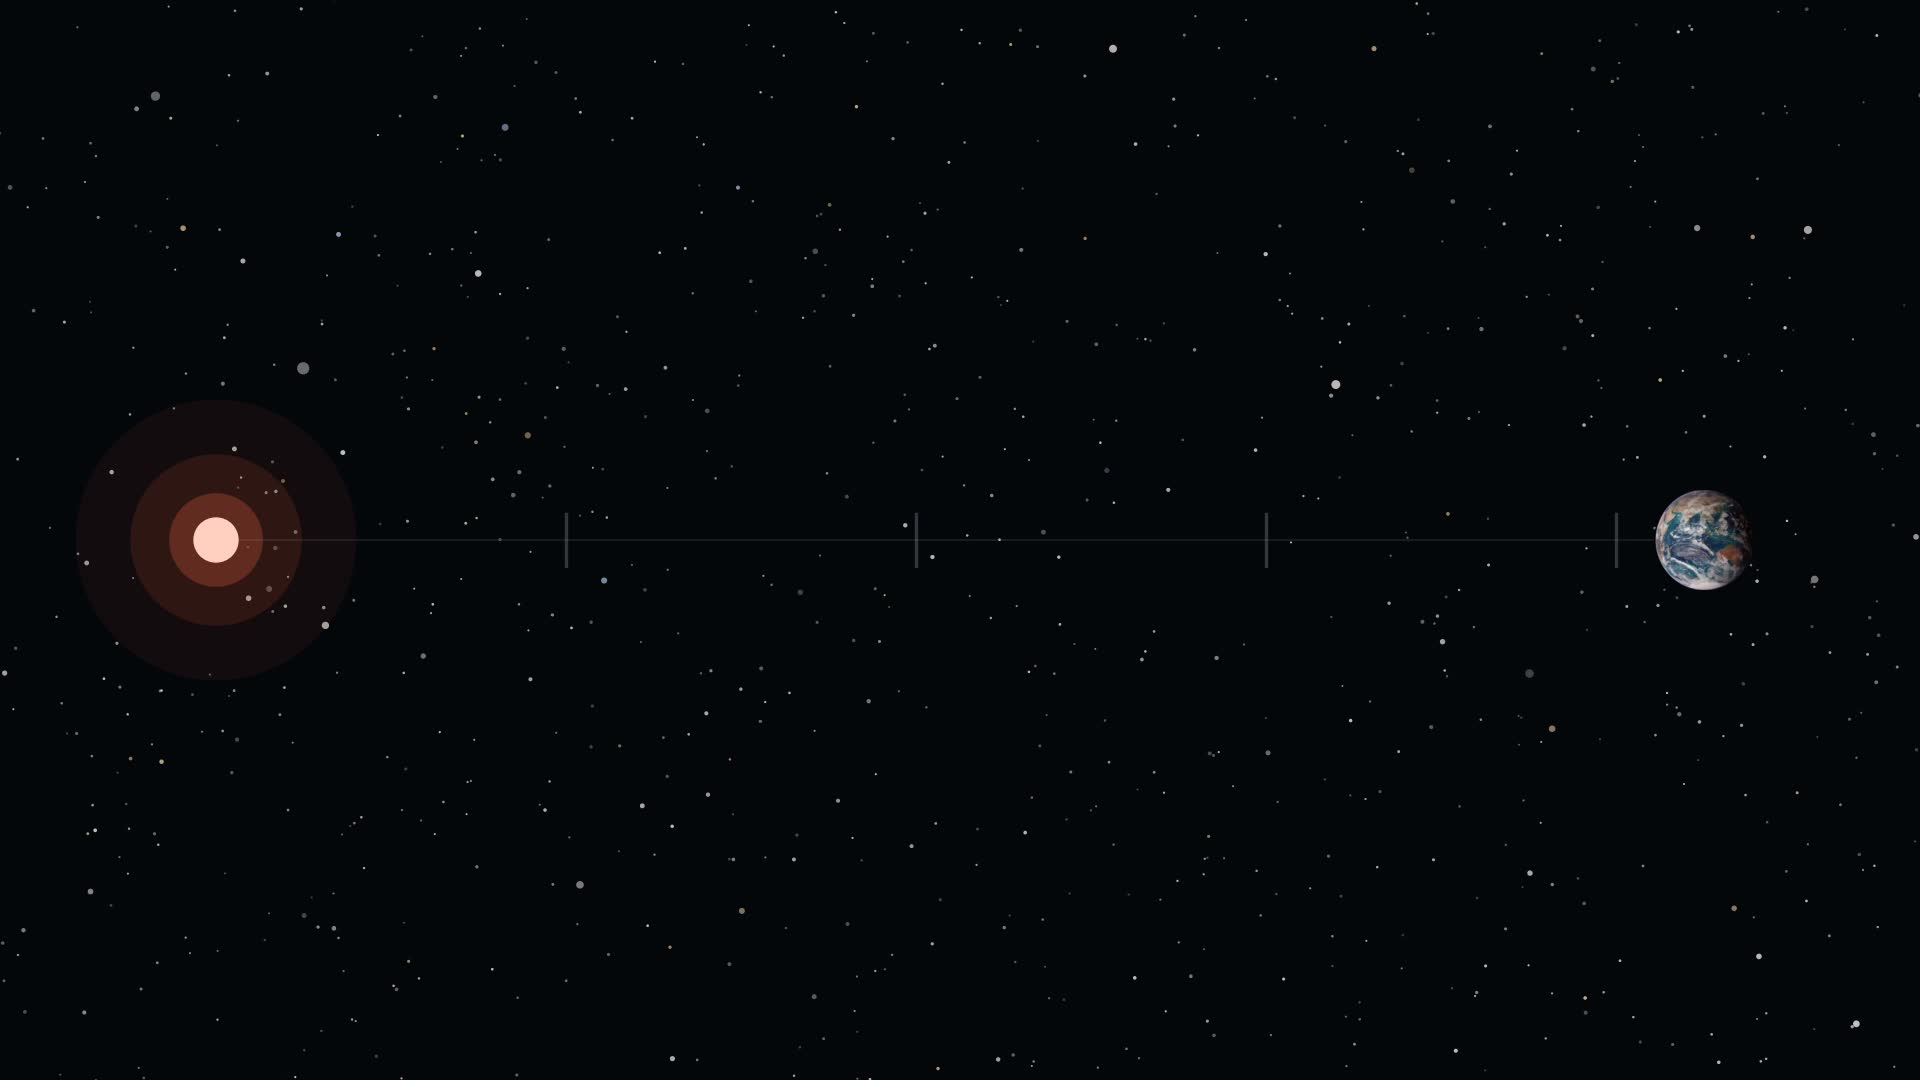
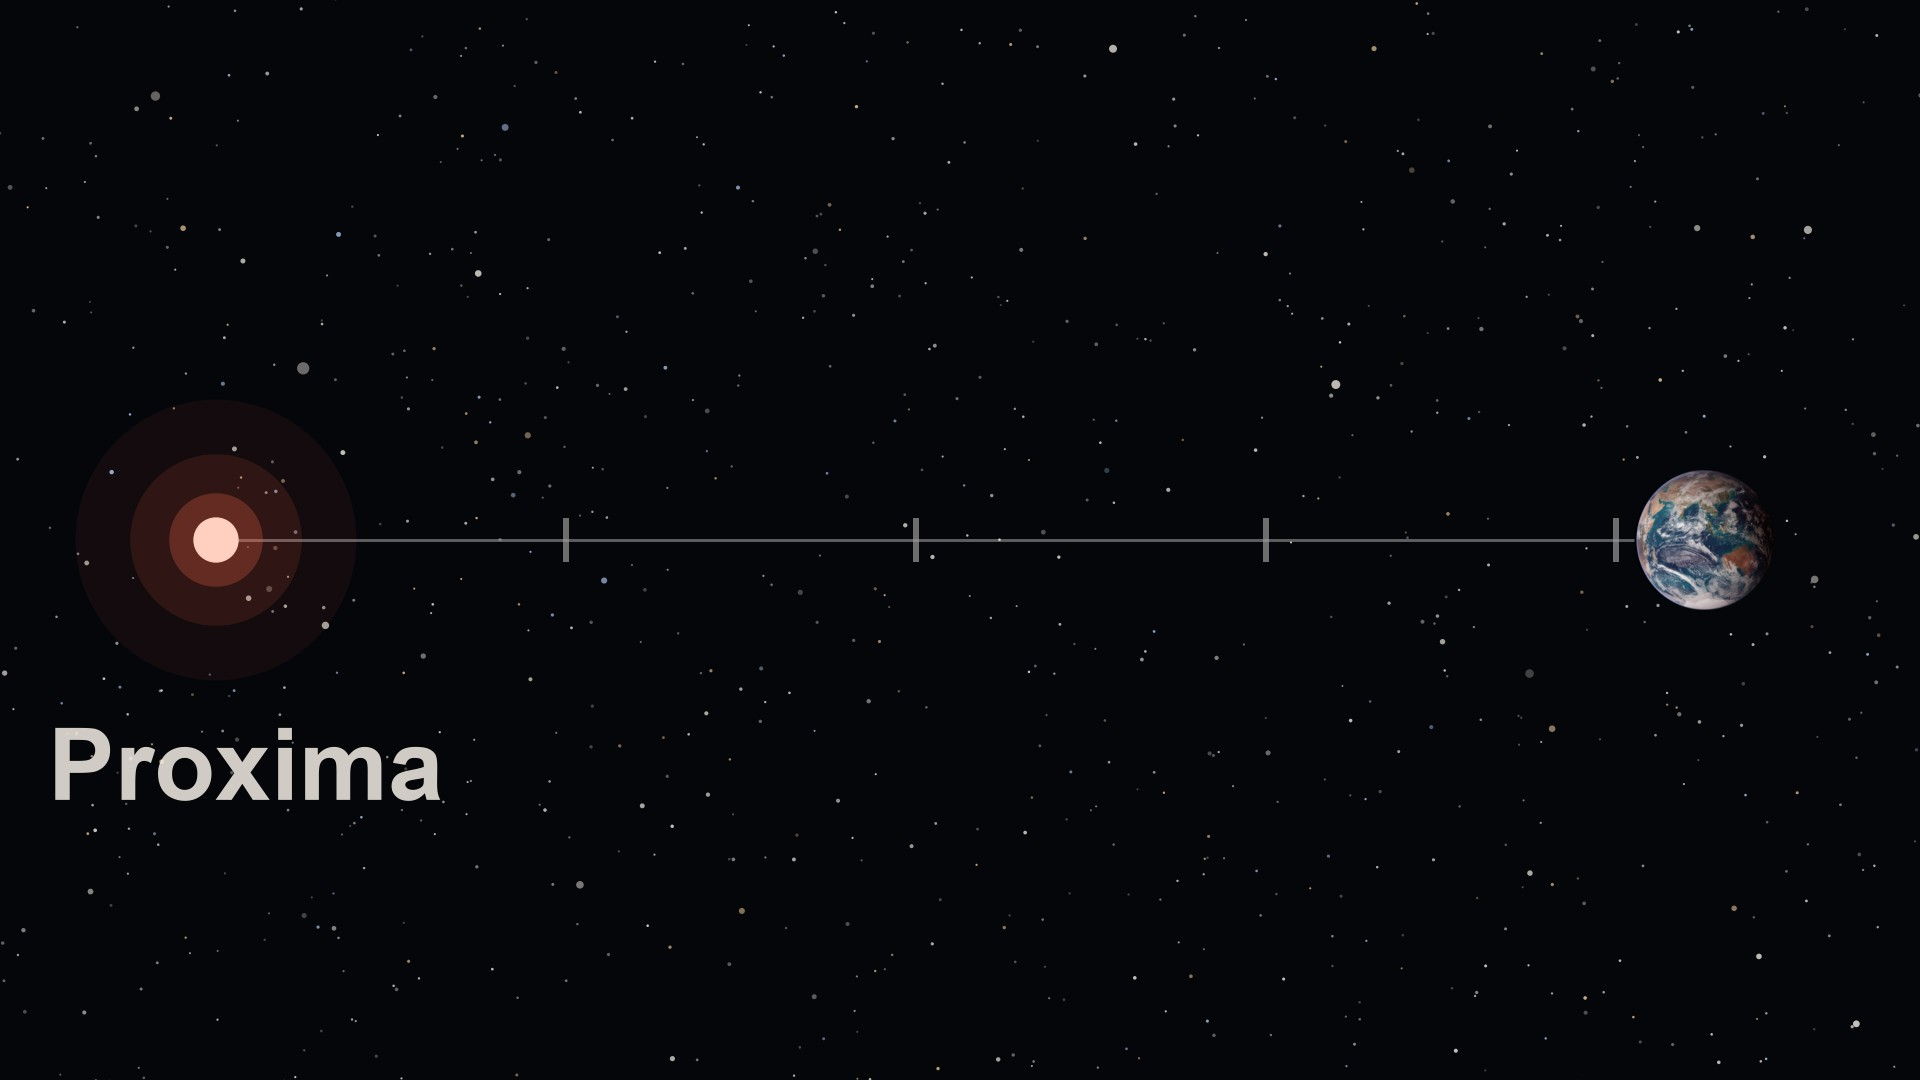
026 J0085: lightyear + lightrace labels, thicker ticks, gold Sun, scaled Moon/Sun, Proxima guide line (Chief FIX #6090651546) [Cursor covering]

diff --git a/02_Video-Projects/026_How-Far-Is-The-Nearest-Star/07_Edit-Project/code_graphics.py b/02_Video-Projects/026_How-Far-Is-The-Nearest-Star/07_Edit-Project/code_graphics.py
@@ -1,5 +1,6 @@
 #!/usr/bin/env python3
-"""Code-drawn graphics for the nearest-star film (026). 1920x1080, 30 fps, PNG frames then MP4. Text-free by design.
+"""Code-drawn graphics for the nearest-star film (026). 1920x1080, 30 fps, PNG frames then MP4. Text-free, except
+the v05 graphics, which carry short house-type labels taken from the spoken line (AGENTS.md 7: read with the sound off).
 
   python3 code_graphics.py parallax   out/   # ch.2: Earth moves Jan -> Jul; the near star shifts against the far stars
   python3 code_graphics.py triple     out/   # ch.1: Alpha Cen A and B orbit each other; Proxima loops round them, far out
@@ -27,8 +28,10 @@ Numbers (01_Script/SOURCES.md):
 import argparse, math, os, subprocess, sys
 
 import numpy as np
+import logging
 import matplotlib
 matplotlib.use("Agg")
+logging.getLogger("matplotlib.font_manager").setLevel(logging.ERROR)
 import matplotlib.pyplot as plt
 from matplotlib.patches import Circle, Ellipse, Rectangle
 
@@ -40,6 +43,10 @@ DIM = "#8a8f9c"
 CYAN = "#5fd6ff"
 RED = "#ff6a4a"
 EARTH = "#3a7bd5"
+YELLOW = "#ffd23f"
+FONT = {"family": ["Arial", "Helvetica", "DejaVu Sans"], "weight": "bold"}
+LABEL_PT = 60
+UNIT_PX = W / 16
 
 
 def ease(t):
@@ -193,7 +200,7 @@ def render_scale(out, seconds, still):
 POOL = os.path.join(os.path.dirname(os.path.abspath(__file__)), "pool_v01")
 EARTH_IMG = "earth_moon/GSFC_20171208_Archive_e002130.jpg"
 MOON_IMG = "earth_moon/GSFC_20171208_Archive_e001982.jpg"
-SUN_IMG = "sun/GSFC_20171208_Archive_e002035.jpg"
+SUN_IMG = "sun/GSFC_20171208_Archive_e000759.jpg"  # gold SDO 171; graded warm-white in disc() so it reads as the Sun
 _DISCS = {}
 
 
@@ -214,6 +221,9 @@ def disc(rel, px=600):
     r = max(rows[-1] - rows[0], cols[-1] - cols[0]) / 2
     sq = im.crop((round(cx - r), round(cy - r), round(cx + r), round(cy + r))).resize((px, px), Image.Resampling.LANCZOS)
     rgb = np.asarray(sq, dtype=np.float32) / 255.0
+    if rel == SUN_IMG:
+        lum = np.clip(rgb.max(axis=2, keepdims=True), 0, 1) ** 0.4
+        rgb = np.clip(0.25 * rgb + 0.85 * lum * np.array([1.0, 0.9, 0.62], dtype=np.float32), 0, 1)
     yy, xx = np.mgrid[0:px, 0:px]
     d = np.hypot(xx - (px - 1) / 2, yy - (px - 1) / 2) / (px / 2)
     alpha = np.clip((1.0 - d) / 0.02, 0, 1)
@@ -256,71 +266,118 @@ def star_field(seed, n=900):
     return pts, size, alpha, tint
 
 
+_WIDTHS = {}
+
+
+def text_w(fig, text):
+    """Width of `text` in data units at label size, trailing spaces included."""
+    if text not in _WIDTHS:
+        r = fig.canvas.get_renderer()
+        def px(t):
+            h = fig.text(0, 0, t, fontsize=LABEL_PT, fontdict=FONT)
+            w = h.get_window_extent(r).width
+            h.remove()
+            return w
+        _WIDTHS[text] = (px(text + "|") - px("|")) / UNIT_PX
+    return _WIDTHS[text]
+
+
+def label(fig, ax, x, y, parts, alpha=1.0):
+    """A one-line label centred on (x, y), kept inside the frame. `parts` is [(text, colour), ...] so the number or hook
+    word can be yellow while the rest is white."""
+    if alpha <= 0.01:
+        return
+    total = sum(text_w(fig, t) for t, _ in parts)
+    left = min(max(x - total / 2, -7.6), 7.6 - total)
+    for t, col in parts:
+        ax.text(left, y, t, color=col, alpha=alpha, fontsize=LABEL_PT, fontdict=FONT, ha="left", va="center", zorder=10)
+        left += text_w(fig, t)
+
+
+def guide(ax, x0, x1, y):
+    ax.plot([x0, x1], [y, y], color="white", lw=3 * 72 / DPI, alpha=0.35, zorder=2, solid_capstyle="butt")
+
+
 def render_lightyear(out, seconds, still, leave=0.6, arrive=8.3):
     """Row 9: Proxima (red-dwarf glow, left) and a small real Earth (right) across a full-frame star field. One pulse
     leaves Proxima at `leave` s and reaches Earth at `arrive` s at constant speed. Four ticks at 1/4.25 .. 4/4.25 of the
-    path (one per year of the 4.25-year trip) light up as the pulse passes; the last quarter year has no tick."""
+    path (one per year of the 4.25-year trip) light up as the pulse passes; the last quarter year has no tick.
+    Labels (row starts at 112.20 s film time): "Proxima" throughout; "1 year" as the first tick lights (~114.6 s, "in a
+    year"); "More than 4 years" from "more" (119.80 s) through "four years ago"."""
     pts, size, alpha, tint = star_field(4246)
     n = int(seconds * FPS)
     PX, EX, Y = -6.2, 6.2, 0.0
     ticks = [PX + (EX - PX) * k / 4.25 for k in range(1, 5)]
+    first_tick = leave + (arrive - leave) / 4.25
+    TH = 22 / UNIT_PX
     frames = [int(n * 0.6)] if still else range(n)
     for i in frames:
         t = i / FPS
         fig, ax = canvas()
         ax.scatter(pts[:, 0], pts[:, 1], s=size, c=tint, alpha=alpha, lw=0)
-        ax.plot([PX, EX], [Y, Y], color=DIM, lw=1, alpha=0.18, zorder=2)
+        guide(ax, PX, EX, Y)
         s = min(1.0, max(0.0, (t - leave) / (arrive - leave)))
         x = PX + (EX - PX) * s
         for tx in ticks:
             lit = x >= tx
-            ax.plot([tx, tx], [Y - 0.22, Y + 0.22], color=GOLD if lit else DIM, lw=3 if lit else 2,
-                    alpha=0.95 if lit else 0.35, zorder=3)
+            ax.plot([tx, tx], [Y - TH, Y + TH], color=GOLD if lit else "#9a9a9a", lw=6 * 72 / DPI,
+                    alpha=1.0 if lit else 0.7, zorder=3, solid_capstyle="butt")
         red_dwarf(ax, PX, Y, scale=1.3)
-        put_disc(ax, EARTH_IMG, EX, Y, 0.42)
+        put_disc(ax, EARTH_IMG, EX, Y, 0.585)
         if t >= leave:
             fade = 1.0 - ease((t - arrive) / 0.5) if t > arrive else 1.0
-            pulse(ax, PX, Y, min(x, EX - 0.3), alpha=fade)
+            pulse(ax, PX, Y, min(x, EX - 0.4), alpha=fade)
         if t > arrive:
             g = 1.0 - ease((t - arrive) / 1.2)
-            ax.add_patch(Circle((EX, Y), 0.75, color="#fff3c8", alpha=0.25 * g, lw=0, zorder=9))
+            ax.add_patch(Circle((EX, Y), 0.9, color="#fff3c8", alpha=0.25 * g, lw=0, zorder=9))
+        label(fig, ax, PX, -1.95, [("Proxima", WHITE)], ease(t / 0.4))
+        label(fig, ax, ticks[0], 0.95, [("1 year", YELLOW)], ease((t - first_tick) / 0.4))
+        label(fig, ax, 0.0, 2.7, [("More than ", WHITE), ("4 years", YELLOW)], ease((t - 7.6) / 0.5))
         save(fig, out, i, still)
     finish(out, still)
 
 
 def render_lightrace(out, seconds, still):
     """Row 27, timed to the VO from the row's start (361.80 s): a small real Earth on the right throughout; on the left,
-    in turn, the real Moon (LRO e001982), the real Sun (SDO e002035) and Proxima (code red-dwarf glow), each a cut-out
-    disc on black space. Each sends a pulse to Earth: the Moon's lands in 1 s, the Sun's in 3 s, Proxima's sets out on
-    "Light from the nearest star" and is still only a sliver of the way across when the row ends. Text-free."""
+    in turn, the real Moon (LRO e001982, half Earth's width), the real Sun (SDO e000759, gold, 1.5x Earth's width) and
+    Proxima (code red-dwarf glow), each a cut-out disc on black space. Each sends a pulse to Earth: the Moon's lands in
+    1 s, the Sun's in 3 s, Proxima's sets out on "Light from the nearest star" along a faint guide line and is still only
+    a sliver of the way across when the row ends. A label under each source fades in on its spoken number: "just"
+    (4.56 s), "eight" (7.78 s), "more" (11.34 s)."""
     pts, size, alpha, tint = star_field(1338, 500)
     n = int(seconds * FPS)
     SX, EX, Y = -5.4, 5.8, 0.0
-    # (source, fade in, pulse leaves, pulse arrives, fade out); local seconds from the row start
-    beats = [("moon", 1.9, 3.3, 4.3, 5.9), ("sun", 6.0, 6.5, 9.5, 9.6), ("proxima", 9.7, 10.2, None, None)]
+    ER = 0.6
+    radius = {"moon": ER * 0.5, "sun": ER * 1.5, "proxima": 0.14}
+    # (source, fade in, pulse leaves, pulse arrives, fade out, label in, label); local seconds from the row start
+    beats = [("moon", 1.9, 3.3, 4.3, 5.9, 4.56, [("Just over ", WHITE), ("a second", YELLOW)]),
+             ("sun", 6.0, 6.5, 9.5, 9.6, 7.78, [("About ", WHITE), ("8 minutes", YELLOW)]),
+             ("proxima", 9.7, 10.2, None, None, 11.34, [("More than ", WHITE), ("4 years", YELLOW)])]
     crawl = 0.035 / max(0.1, seconds - 10.2)
     frames = [int(n * 0.6)] if still else range(n)
     for i in frames:
         t = i / FPS
         fig, ax = canvas()
         ax.scatter(pts[:, 0], pts[:, 1], s=size, c=tint, alpha=alpha * 0.8, lw=0)
-        put_disc(ax, EARTH_IMG, EX, Y, 0.6)
-        for name, fin, leave, arrive, fout in beats:
+        put_disc(ax, EARTH_IMG, EX, Y, ER)
+        for name, fin, leave, arrive, fout, lab_in, lab in beats:
             a = ease((t - fin) / 0.5) * (1.0 - ease((t - fout) / 0.5) if fout else 1.0)
             if a <= 0:
                 continue
+            r = radius[name]
             if name == "moon":
-                put_disc(ax, MOON_IMG, SX, Y, 0.75, a)
-                x0 = SX + 0.75
+                put_disc(ax, MOON_IMG, SX, Y, r, a)
             elif name == "sun":
-                put_disc(ax, SUN_IMG, SX, Y, 1.2, a)
-                x0 = SX + 1.2
+                put_disc(ax, SUN_IMG, SX, Y, r, a)
             else:
-                red_dwarf(ax, SX, Y, a, scale=1.5)
-                x0 = SX + 0.3
+                red_dwarf(ax, SX, Y, a, scale=1.0)
+            x0 = SX + r
+            x1 = EX - ER
+            label(fig, ax, SX, -1.9, lab, a * ease((t - lab_in) / 0.4))
             if t < leave:
+                if name == "proxima":
+                    guide(ax, x0, x1, Y)
                 continue
-            x1 = EX - 0.6
             if arrive:
                 s = min(1.0, (t - leave) / (arrive - leave))
                 fade = 1.0 - ease((t - arrive) / 0.4) if t > arrive else 1.0
@@ -329,8 +386,12 @@ def render_lightrace(out, seconds, still):
                     g = 1.0 - ease((t - arrive) / 1.0)
                     ax.add_patch(Circle((EX, Y), 0.95, color="#fff3c8", alpha=0.25 * g * a, lw=0, zorder=9))
             else:
-                s = crawl * (t - leave)
-                pulse(ax, x0, Y, x0 + (x1 - x0) * s, alpha=a, trail=0.35)
+                guide(ax, x0, x1, Y)
+                x = x0 + (x1 - x0) * crawl * (t - leave)
+                ax.plot([x0, x], [Y, Y], color=GOLD, lw=5, alpha=0.95 * a, solid_capstyle="round", zorder=6)
+                for rr, aa in ((0.2, 0.25), (0.1, 0.6)):
+                    ax.add_patch(Circle((x, Y), rr, color="#fff3c8", alpha=aa * a, lw=0, zorder=7))
+                ax.add_patch(Circle((x, Y), 0.05, color="white", alpha=a, zorder=8))
         save(fig, out, i, still)
     finish(out, still)
 

diff --git a/02_Video-Projects/026_How-Far-Is-The-Nearest-Star/07_Edit-Project/rough_v05_pack/GRAPHICS_V05_STILLS.md b/02_Video-Projects/026_How-Far-Is-The-Nearest-Star/07_Edit-Project/rough_v05_pack/GRAPHICS_V05_STILLS.md
@@ -1,22 +1,27 @@
-# 026 v05: two new code graphics, stills for Claude (J0085)
+# 026 v05: two new code graphics, stills for the Chief (J0085)
 
-Rendered by `code_graphics.py lightyear|lightrace code_out_v05/` (Mini, 9 Oct). Text-free. Sheet: `code_out_v05_sheet.jpg`; full-size stills in `code_out_v05_stills/`.
+Rendered by `code_graphics.py lightyear|lightrace code_out_v05/` (Mini). Sheet: `code_out_v05_sheet.jpg`; full-size stills in `code_out_v05_stills/`.
 
-## `lightyear` (row 9), 9.6 s
-- Proxima (the code red-dwarf glow, as in `parallax`) left; real Earth right (LRO/Blue Marble `GSFC_20171208_Archive_e002130`, cut-out disc); full-frame star field; a very faint guide line.
-- One pulse leaves Proxima at 0.6 s and reaches Earth at 8.3 s at constant speed. Four ticks at 1/4.25 … 4/4.25 of the path light gold as it passes (one per year; the last quarter year has no tick). Earth glows briefly on arrival.
-- Stills: 0.3 s (start), 4.5 s (two ticks lit), 8.6 s (arrival).
-- **Placement (needs Claude's call):** row 9 runs 108.33–121.73 s. An 8 s graphic that only takes the `journey` slot (108.33–112.20) can't land on "four years ago" (120.26–121.0). Proposed v05 row 9: `iss073e0982679` 108.33–112.20 ("A light-year is a distance, not a time."), then `lightyear` 112.20–121.73 (hold_ok, 9.5 s), so the pulse arrives at 120.5 s on "four years ago". `eso1031a` leaves row 9 (it stays in rows 13 and 24's neighbours).
+**Round 2 (10 Oct), after the Chief's FIX (#6090651546).** Both graphics now carry short labels in house type (Arial/Helvetica bold, 60 pt, about 100 px cap-to-descender at 1080), white with the number in yellow (#ffd23f), in the empty band above or below the path, each fading in on its spoken word. Every label is the spoken words, and none says 4.25.
+
+## `lightyear` (row 9), 9.6 s, placed 112.20–121.73 (hold_ok)
+- Proxima (code red-dwarf glow, as in `parallax`) left; real Earth right (`GSFC_20171208_Archive_e002130`), now 1.4x (140 px across); full-frame star field.
+- Guide line 3 px at 35% white. Ticks 6 px wide and 44 px tall, grey until lit, then gold.
+- One pulse leaves Proxima at 0.6 s (112.8 s film) and reaches Earth at 8.3 s (120.5 s, on "four years ago") at constant speed. Four ticks at 1/4.25 … 4/4.25 of the path.
+- Labels: "Proxima" under the star from the row start; "1 year" (yellow) above the first tick as it lights at 2.41 s (114.61 s, "in a year" at 114.58); "More than **4 years**" above the path from 7.6 s (119.8 s, "more"), fully in by "four" (120.26 s).
+- Stills: 0.3 s, 4.5 s, 8.6 s.
 
 ## `lightrace` (row 27), 16.8 s, timed from the row start (361.80 s)
-- Real Earth disc right throughout. Left, in turn, each a cut-out disc on black space:
-  - Moon (`GSFC_20171208_Archive_e001982`, 2nd use): in at 1.9 s, pulse 3.3 → 4.3 s (1 s; "Moonlight" is at 3.12).
-  - Sun (`GSFC_20171208_Archive_e002035`, 2nd use): in at 6.0 s, pulse 6.5 → 9.5 s (3 s; "Sunlight" is at 6.38).
-  - Proxima (code red-dwarf glow): in at 9.7 s, pulse sets out at 10.2 s ("Light from the nearest star" is at 9.24) and crawls to 3.5% of the way by the end, holding that slow progress over "the shortest trip of its kind there is".
-- Stills: 3.8 s (Moon pulse), 8.0 s (Sun pulse mid-trip), 16.5 s (Proxima's sliver at the end).
-- **Flag:** `e002035` is SDO ultraviolet, so the Sun reads **blue**. Used as briefed. If Claude wants a yellow-white Sun, `e000790` or `e000759` are the alternatives in the pool (one constant change).
+- Real Earth disc right throughout (radius unchanged). Left, in turn:
+  - Moon (`GSFC_20171208_Archive_e001982`, 2nd use), now 0.5x Earth's width. Pulse 3.3 → 4.3 s. Label "Just over **a second**" from 4.56 s ("just").
+  - Sun, now `sun/GSFC_20171208_Archive_e000759.jpg` (gold, 2nd use), 1.5x Earth's width. It read bronze-orange next to Earth, so `disc()` grades it warm-white (that file only). Pulse 6.5 → 9.5 s. Label "About **8 minutes**" from 7.78 s ("eight").
+  - Proxima (code red-dwarf glow) from 9.7 s, with the same 3 px guide line to Earth and a solid gold trail behind the pulse. The pulse sets out at 10.2 s and crawls to 3.5% of the way by the end. Label "More than **4 years**" from 11.34 s ("more").
+- Timings unchanged otherwise (Moon 3.3→4.3, Sun 6.5→9.5, Proxima from 10.2).
+- Stills: 4.9 s (Moon pulse landed, label in), 8.4 s (Sun pulse mid-trip, label in), 16.5 s (Proxima's sliver at the end).
+
+## Row 9 placement (approved by the Chief)
+`iss073e0982679` 108.33–112.20 ("A light-year is a distance, not a time."), then `lightyear` 112.20–121.73 (hold_ok). `eso1031a` leaves row 9; `journey` drops to 2 uses.
 
 ## Still to do on J0085
-1. Claude OKs (or changes) the stills and the row 9 placement above.
-2. Two Omni takes (rows 11 and 24), Vertex `global`, one take each, balance read before each.
-3. v05 render from v04's cached segments, rows 9, 11, 24 and 27 changed; picture_qa, music_gate, clip_check; `OWB UAT/026_NearestStar_v05_PHONE.mp4`.
+1. ~~Omni takes rows 11 and 24~~ (done: 4537e72, 59e3a17).
+2. v05 render from v04's cached segments, rows 9, 11, 24 and 27 changed; picture_qa (both graphics added to `polish_reviewed_ok` as code graphics on black space), music_gate, clip_check; `OWB UAT/026_NearestStar_v05_PHONE.mp4`.
